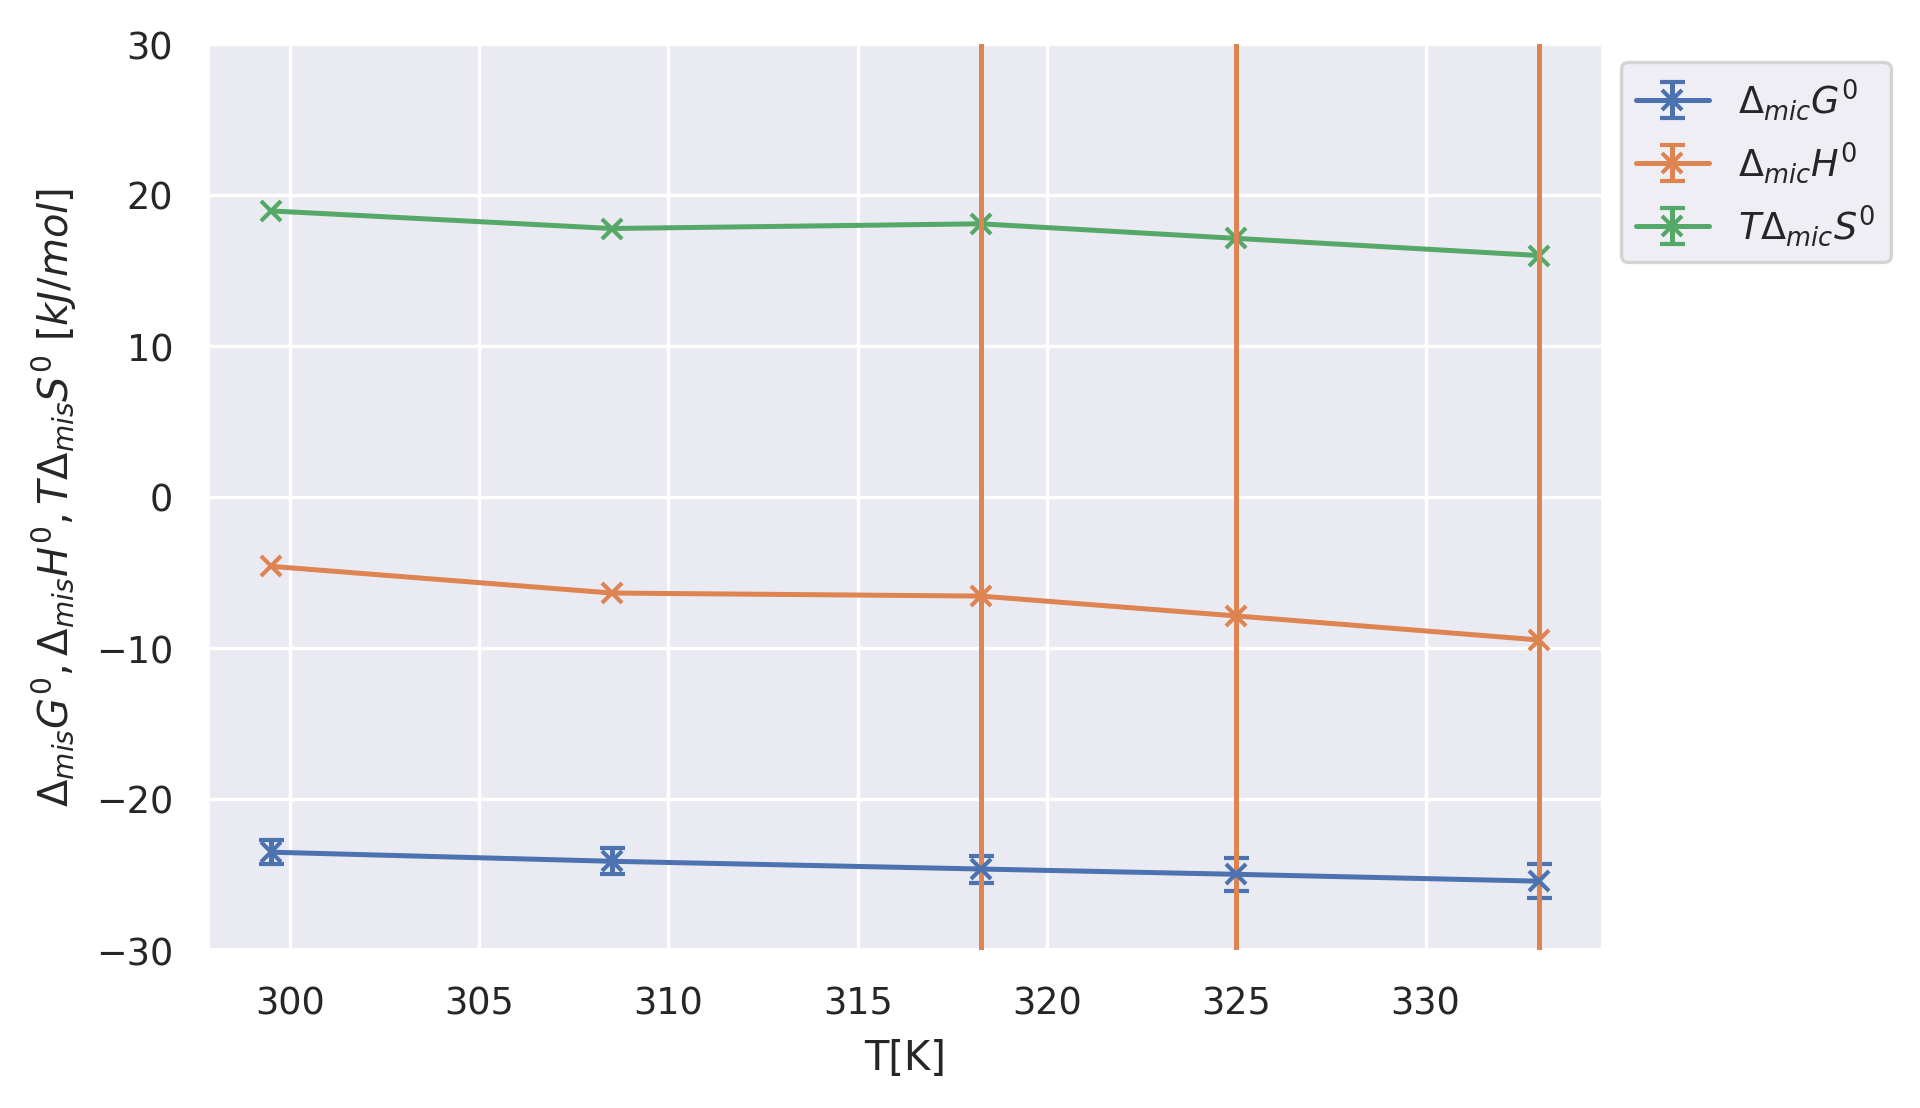
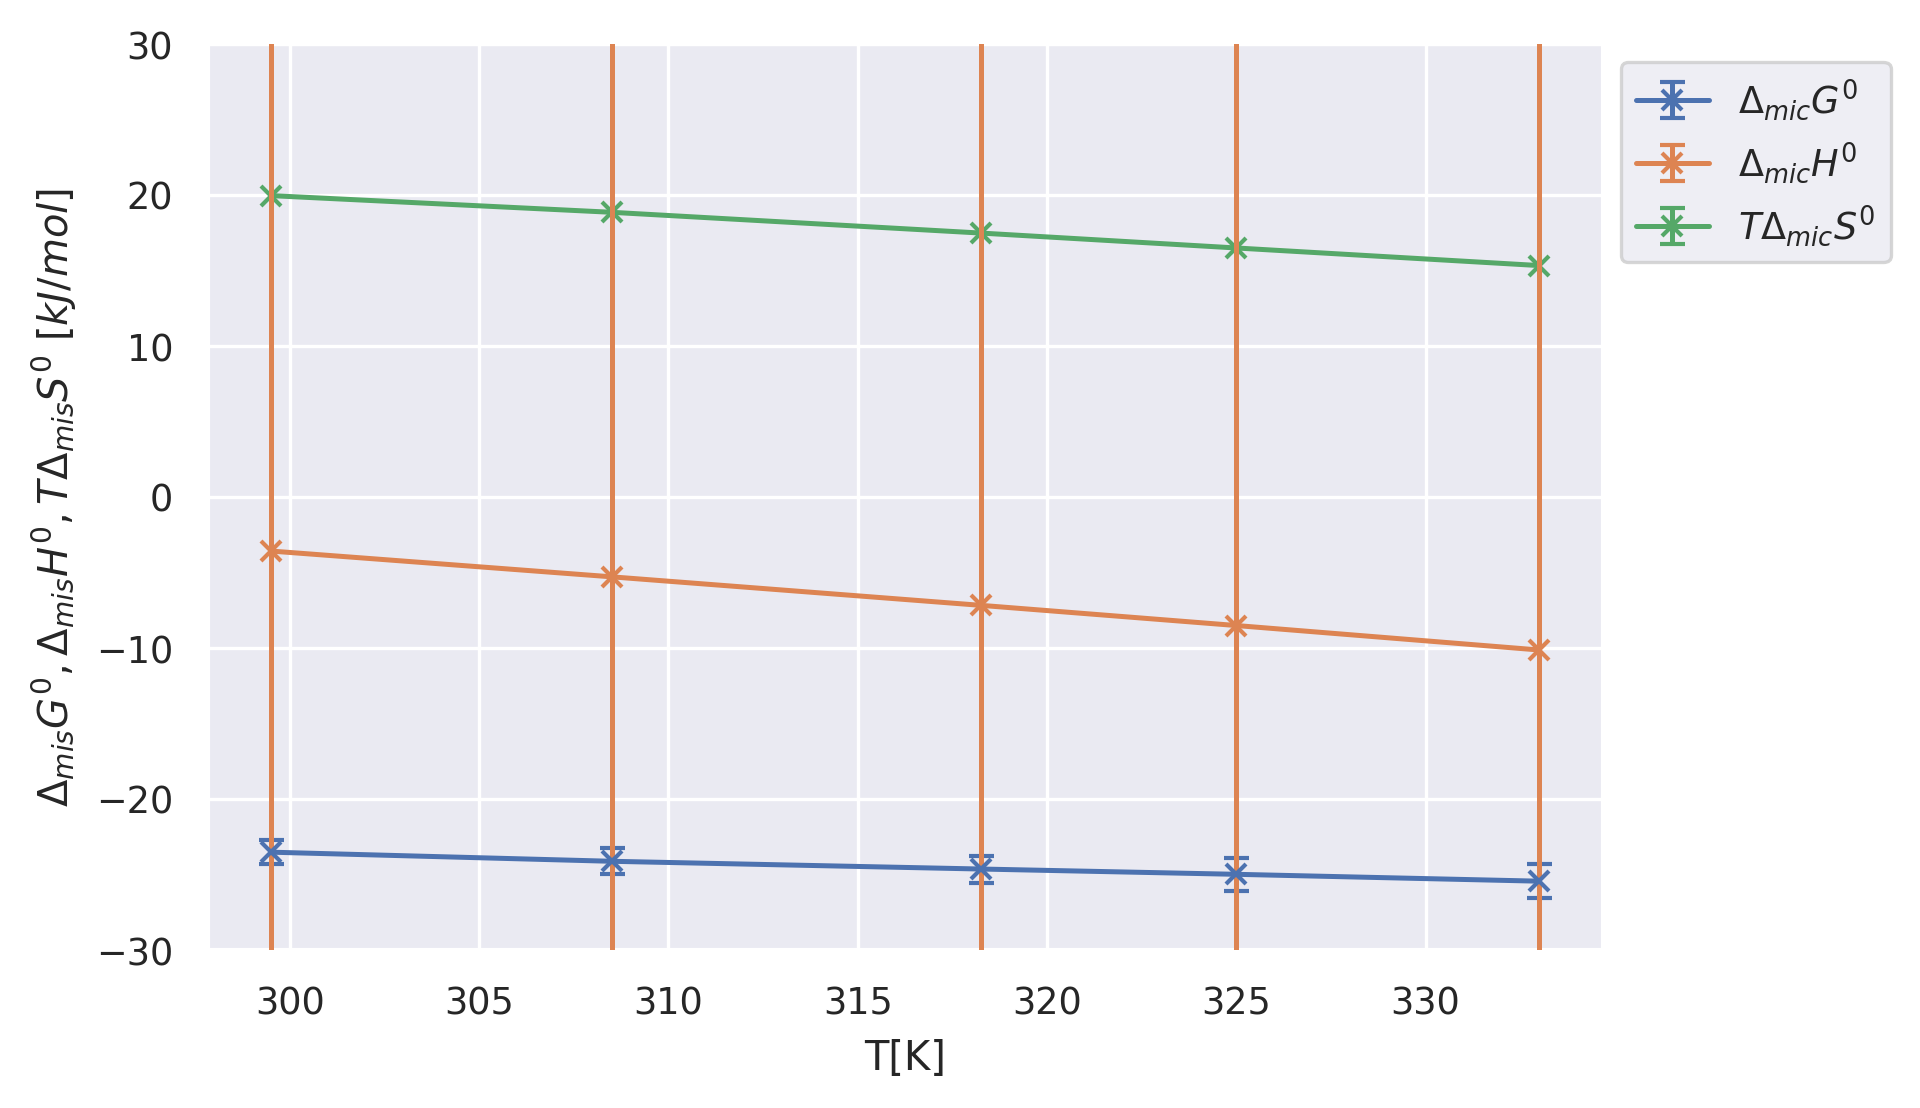
terminado

Changed region(s): [[0.125, 0.4603, 0.8125, 0.6137], [0.125, 0.1534, 0.8125, 0.2455]]

diff --git a/calculos.py b/calculos.py
@@ -545,60 +545,35 @@ df_reporte['delta_Go[kJ/mol]']= Reporte_valor(
 # alfa vsT
 #$$$$$$$$$$$$$$$$$$$$$$$$$$$$$$$$$$$$$$$$$$$$$$$$$$$$$$$$$$$$ #$$$$$$$$$$$$$$$$$$$$$$$$$$$$$$$$$$$$$$$$$$$$$$$$$$$$$$$$$$$$
 
-#hay 2 ajustes linials, alta a T bajos y alfa a T altos
-#el de menor T
 # pendiente=dalfa/dT=[1/T]
-medicion_cambio_pendiente=2
-x= Temps[:medicion_cambio_pendiente]
-y = alpha_lista[:medicion_cambio_pendiente]
+x= Temps
+y = alpha_lista
 x = sm.add_constant(x)
-model_menor = sm.OLS(y,x).fit()
+model_menor = sm.regression.linear_model.WLS(y,x,weights=1/np.array(err_alpha_lista)).fit()
 print_model_menor = model_menor.summary()
 print(print_model_menor)
 
 ordenada_menor,pendiente_menor= model_menor.params
 err_ordenada_menor, err_pendiente_menor = model_menor.bse
 r2_menor=model_menor.rsquared
+predictions_menor=model_menor.predict(x)
 
-x_ci_menor=np.linspace(Temps[0],Temps[medicion_cambio_pendiente],100)
+dalfa_dT=pendiente_menor
+err_dalfa_dT=err_pendiente_menor
+
+
+x_ci_menor=np.linspace(Temps[0],Temps[-1],100)
 frame = model_menor.get_prediction(sm.add_constant(x_ci_menor)).summary_frame(alpha=0.01)
 ci_1_low=frame.mean_ci_lower
 ci_1_up=frame.mean_ci_upper
 
-#el de mayor T
-#el -2 es porque en las últimas 2 temp no pude calcular alfa
-x= np.array(Temps[medicion_cambio_pendiente:])
-y = np.array(alpha_lista[medicion_cambio_pendiente:])
-x = sm.add_constant(x)
-model_mayor = sm.OLS(y,x).fit()
-print_model_mayor = model_mayor.summary()
-
-ordenada_mayor, pendiente_mayor= model_mayor.params
-err_ordenada_mayor, err_pendiente_mayor = model_mayor.bse
-r2_mayor=model_mayor.rsquared
-
-
-#voy a tener 2 pendintes dalfa/dT, una para T<25 y otra pra T>25
 #los pongo en la lista dalfa_dT_lista que está emparejada con la Temps
-dalfa_dT_sub25=pendiente_menor
-err_dalfa_dT_sub25=err_pendiente_menor
-dalfa_dT_sob25=pendiente_mayor
-err_dalfa_dT_sob25=err_pendiente_mayor
 
-dalfa_dT_lista=np.array([dalfa_dT_sub25]*len(Temps[:medicion_cambio_pendiente])+[dalfa_dT_sob25]*len(Temps[medicion_cambio_pendiente:]))
-err_dalfa_dT_lista=np.array([err_dalfa_dT_sub25]*len(Temps[:medicion_cambio_pendiente])+[err_dalfa_dT_sob25]*len(Temps[medicion_cambio_pendiente:]))
+dalfa_dT_lista=np.array([pendiente_menor]*len(Temps))
+err_dalfa_dT_lista=np.array([err_pendiente_menor]*len(Temps))
 print(print_model_menor)
 
-#intersección
 
-Tinterseccion=(ordenada_mayor-ordenada_menor)/(-pendiente_mayor+pendiente_menor)
-predictions_menor=model_menor.predict(sm.add_constant([Temps[0],Tinterseccion]))
-predictions_mayor = model_mayor.predict(sm.add_constant([Tinterseccion,Temps[-1]])) 
-
-x_ci_mayor=np.linspace(Tinterseccion,x[-1][1],50)
-frame = model_mayor.get_prediction(sm.add_constant(x_ci_mayor)).summary_frame(alpha=0.05)
-ci_2_low=frame.mean_ci_lower
-ci_2_up=frame.mean_ci_upper
 #Reportes
 
 #TODO exportar los resultados del ajuste cuadrático
@@ -617,38 +592,21 @@ plt.errorbar(
 )
 
 etiqueta_menor=f'Ajuste lineal a T bajas $R^2=${r2_menor:.3f}\t'
-etiqueta_menor+=r"$\frac{\partial \alpha}{\partial T}=$"+f"{dalfa_dT_sub25:.1e}"
-etiqueta_menor+=" "+r"$T^{-1}$"
+etiqueta_menor+=r"$\frac{\partial \alpha}{\partial T}=$"+f"{dalfa_dT:.1e}"
+etiqueta_menor+=" "+r"$\pm$"+f"{err_dalfa_dT:.1g} "+r"$T^{-1}$"
 plt.plot(
-    [Temps[0],Tinterseccion],
+    Temps,
     predictions_menor,
     ls='--',
     zorder=20,
     label=etiqueta_menor
 )
 
-#no puedo calcular CI para regresión con 2 valores
-# Plot_CI(
-#     X=Temps[:medicion_cambio_pendiente],
-#     CI_lower=ci_1_low,
-#     CI_upper=ci_1_up
-# )
-etiqueta_mayor=f'Ajuste lineal a T altas  $R^2=${r2_mayor:.3f}\t'
-etiqueta_mayor+=r"$\frac{\partial \alpha}{\partial T}=$"+f"{dalfa_dT_sob25:.1e}"
-etiqueta_mayor+=r"$\pm$"+f"{err_dalfa_dT_sob25:.1g} "+r"$T^{-1}$"
-
-plt.plot(
-    [Tinterseccion,Temps[-1]],
-    predictions_mayor,
-    ls='--',
-    label=etiqueta_mayor
-)
 Plot_CI(
-    X=x_ci_mayor,
-    CI_lower=ci_2_low,
-    CI_upper=ci_2_up
+    X=x_ci_menor,
+    CI_lower=ci_1_low,
+    CI_upper=ci_1_up
 )
-
 
 axes.set(
     xlabel="T [K]",
@@ -656,6 +614,7 @@ axes.set(
 )
 plt.legend(#bbox_to_anchor=(1,1),
            loc='upper left')
+plt.show()
 plt.savefig('figuras/alfavst.png',dpi=300,bbox_inches='tight')
 #%% ln(CMC) vs T
 #$$$$$$$$$$$$$$$$$$$$$$$$$$$$$$$$$$$$$$$$$$$$$$$$$$$$$$$$$$$$
@@ -865,82 +824,6 @@ axes.set(
 )
 plt.savefig('figuras/TermovsT.png',dpi=300,bbox_inches='tight')
 
-#%%
-#si usaba ambas series de datos
-# fig,axes = plt.subplots(nrows=1,ncols=2,sharey=True)
-
-# Tnuestro=Temps[3:-2]
-# axes[0].errorbar(
-#     x=Tnuestro,
-#     y=Go_lista[3:],
-#     yerr=err_go_lista[3:],
-#     label=r'$\Delta_{mic}G^0$',
-#     zorder=20,
-#     fmt='-x',
-#     capsize=3
-# )
-
-# axes[0].errorbar(
-#     x=Tnuestro,
-#     y=H_lista[3:],
-#     yerr=err_H_lista[3:],
-#     fmt='-x',
-#     capsize=3,
-#     label=r'$\Delta_{mic}H^0$'
-# )
-
-# axes[0].errorbar(
-#     x=Tnuestro,
-#     y=S_lista[3:],
-#     yerr=err_S_lista[3:],
-#     fmt='-x',
-#     capsize=3,
-#     label=r'$\Delta_{mic}S^0$'
-# )
-
-
-
-
-# #datos del excel
-# axes[1].errorbar(
-#     x=Temps[:3],
-#     y=Go_lista[:3],
-#     yerr=err_go_lista[:3],
-#     fmt='-x',
-#     capsize=3,
-#     label=r'$\Delta_{mic}G^0$'
-# )
-# axes[1].errorbar(
-#     x=Temps[:3],
-#     y=H_lista[:3],
-#     yerr=err_H_lista[:3],
-#     fmt='-x',
-#     capsize=3,
-#     label=r'$\Delta_{mic}H^0$'
-# )
-# axes[1].errorbar(
-#     x=Temps[:3],
-#     y=S_lista[:3]*Temps[:3],
-#     yerr=err_S_lista[:3],
-#     fmt='-x',
-#     capsize=3,
-#     label=r'$T\Delta_{mic}S^0$'
-# )
-
-# plt.legend(bbox_to_anchor=(1,1),loc='upper left')
-# axes[0].legend_=None
-
-# axes[0].set(
-#     title="[1]",
-#     xlabel="T[K]",
-#     ylabel=r"$\Delta_{mis}G^0,\Delta_{mis}H^0,T\Delta_{mis}S^0\ \left[kJ/mol\right]$",
-#     ylim=[-30,30]
-# )
-# axes[1].set(
-#     xlabel="T[K]",
-#     title="[2]"
-# )
-# plt.savefig('figuras/TermovsT.png',dpi=300,bbox_inches='tight')
 #%%
 # Reportes (ignorar)
 #$$$$$$$$$$$$$$$$$$$$$$$$$$$$$$$$$$$$$$$$$$$$$$$$$$$$$$$$$$$$
